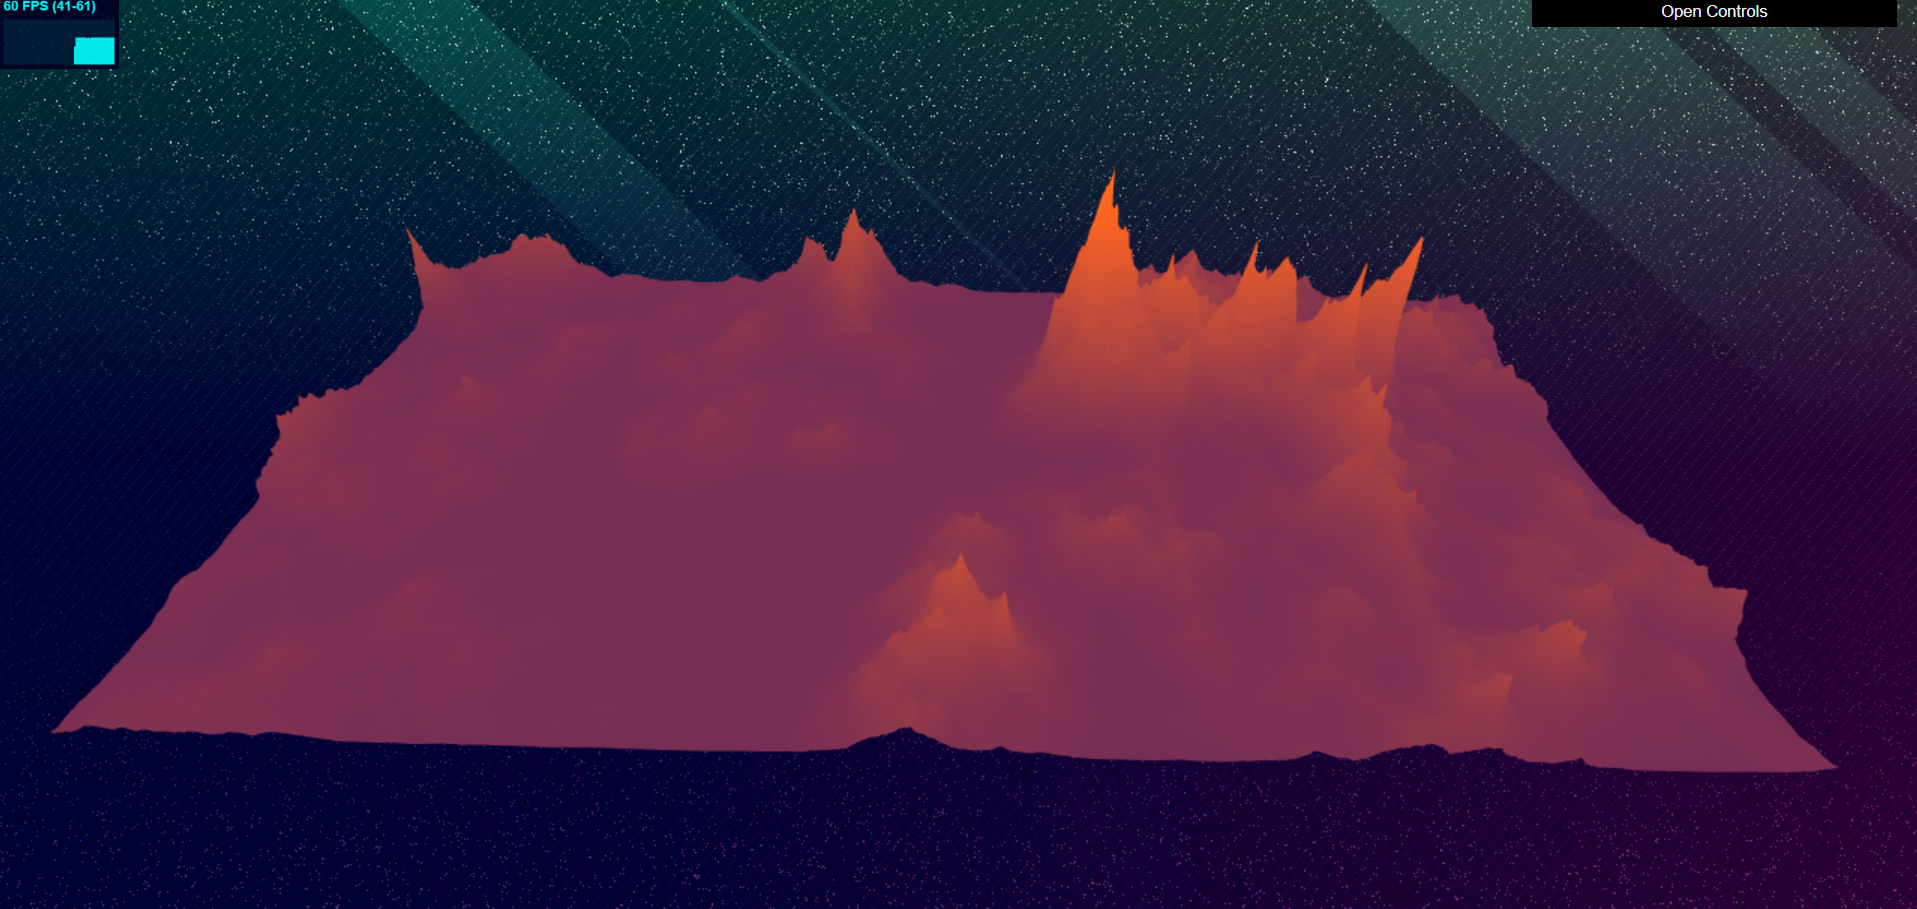
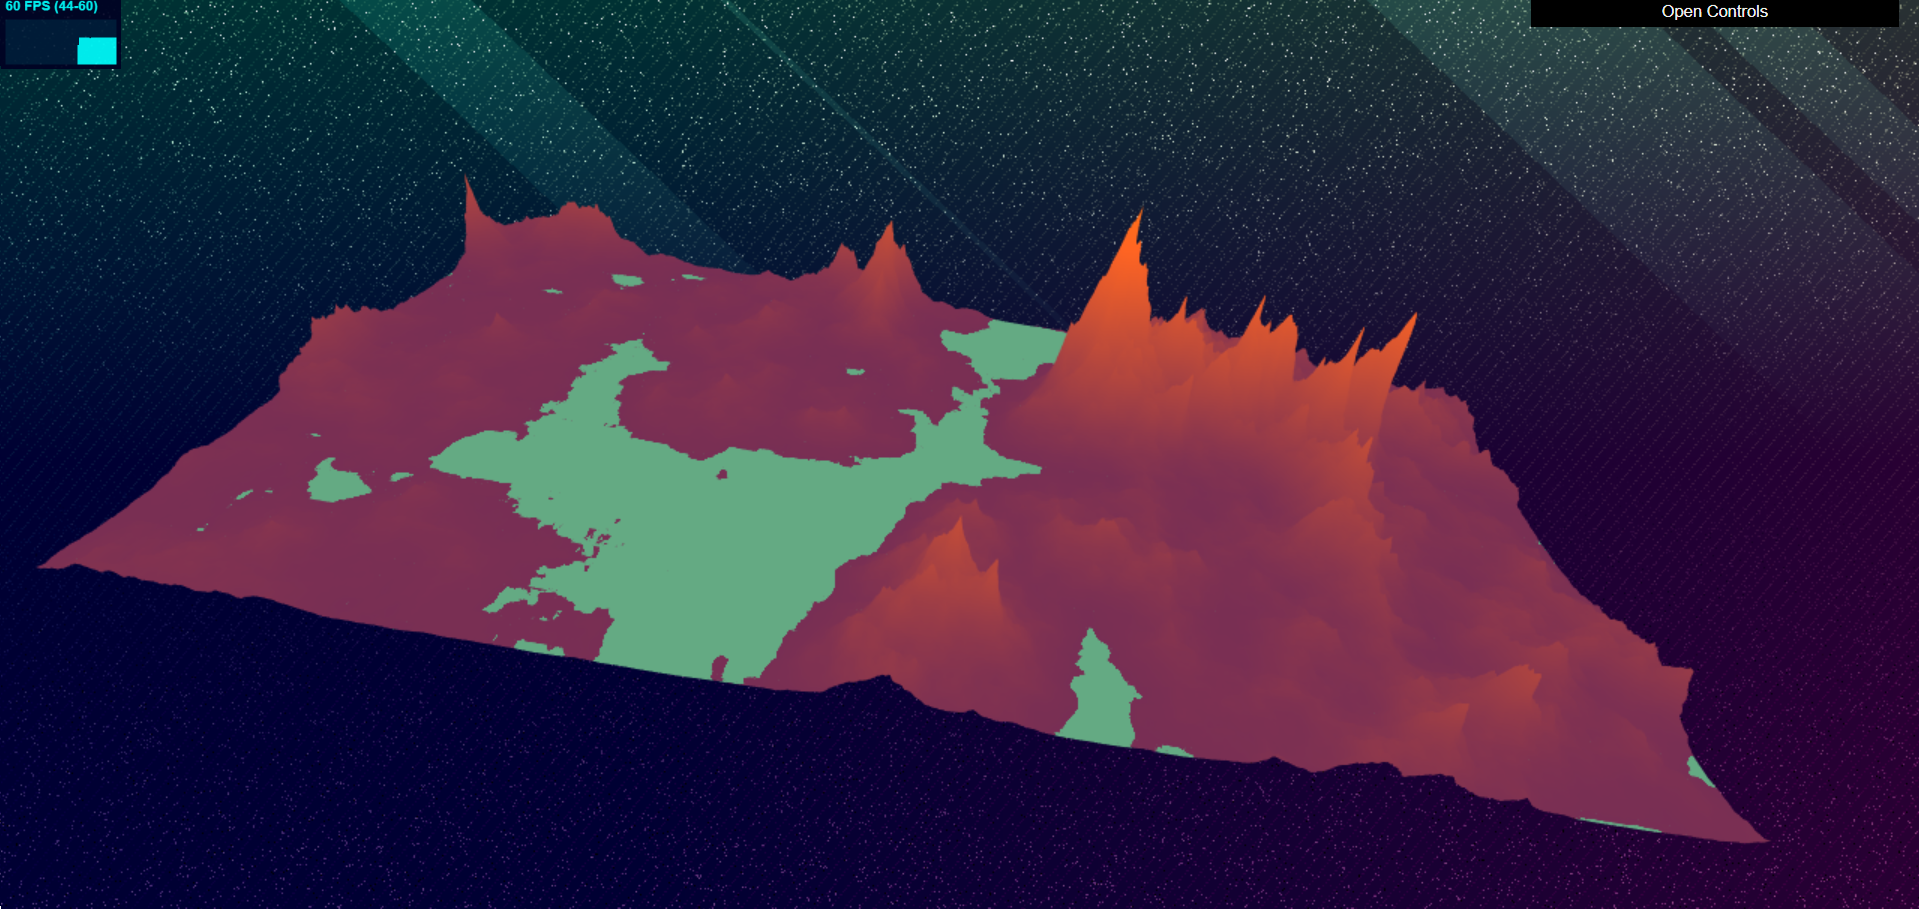
add more readme images

diff --git a/src/main.ts b/src/main.ts
@@ -12,6 +12,8 @@ import ShaderProgram, {Shader} from './rendering/gl/ShaderProgram';
 // This will be referred to by dat.GUI's functions that add GUI elements.
 const controls = {
   seaLevel: 0,
+  riverStart: 0.4,
+  riverEnd: 0.75,
   'Load Scene': loadScene, // A function pointer, essentially
 };
 
@@ -83,6 +85,8 @@ function main() {
   // Add controls to the gui
   const gui = new DAT.GUI();
   gui.add(controls, 'seaLevel', 0, 10).step(0.5);
+  gui.add(controls, 'riverStart', 0, 1).step(0.1);
+  gui.add(controls, 'riverEnd', 0, 5).step(0.25);
 
   // get canvas and webgl context
   const canvas = <HTMLCanvasElement> document.getElementById('canvas');

diff --git a/README.md b/README.md
@@ -5,29 +5,47 @@
 
 In addition to the class lectures and powerpoints, I consulted a few external resources for this project:
 - http://iquilezles.org/www/articles/warp/warp.htm, for implementing a perturbed FBM function.
-- https://static1.squarespace.com/static/58a1bc3c3e00be6bfe6c228c/t/58a4d25146c3c4233fb15cc2/1487196929690/ImplicitProceduralPlanetGeneration-Report.pdf, for inspiration.
+- https://static1.squarespace.com/static/58a1bc3c3e00be6bfe6c228c/t/58a4d25146c3c4233fb15cc2/1487196929690/ImplicitProceduralPlanetGeneration-Report.pdf, for approximating the gradient of a surface.
 
 # Live GitHub demo
-
-
+https://j9liu.github.io/hw1/
 
 # Sky Features
 
 The sky is a superposition of several simple functions, each of which is responsible for a different layer of the background.
 
+
+First, all the pixels were colored based on a linear gradient between a blue and a purple hue.
+linearly interpolated with the colors corresponding to the normals of the background plane's points.
 ![](sky01.png)
+
+Then, to produce the cartoon light rays, I experimented with an FBM noise function raised to an arbitrary exponent, which generated the overall placement of the rays based on the coordinates of the plane. The diagonal shape comes from adding the x and y coordinates together, and the angle of their slant is controlled by transforming the domain (multiplying these coordinates by scalars). The amount of light added is affected y coordinate, such that it fades out as it travels down the screen, ultimately cutting off at the half-way point.
 
 ![](sky02.png)
 
+The stars came from a custom hardcoded noise function that was called multiple times, both on the xy-coordinates and itself. I used two arbitrary thresholds to filter the amount of dots that appeared for two "layers" of stars, to create slight variation between their brightness.
+
 ![](sky03.png)
+
+Lastly, the smaller lines running through the sky were achieved in a similar way as the cartoon light rays. However, it is based on a custom noise function instead of the FBM, so there is no linear interpolation between values. Because of this, there are notable holes in these lines, as opposed to the solidness of the light rays.
 
 ![](sky04.png)
 ![](skyclose.png)
 
+Layering all of these effects on one another produces the stylistic night sky in the background.
 
-Layering all of these effects on one another 
 ![](sky05.png)
 
 # Terrain Features
 
+The terrain is meant to simulate a rocky, alien-esque landscape with its own (suspiciously colored) "water." I began with a typical 2D FBM function, which I then raised to an arbitrary exponent in order achieve mountains that towered notably over low-ranged areas. The base color of the mountains was achieved by linearly interpolating between a purple and orange hue, based on the height, while areas corresponding to the "water" were colored based on being below a height threshold.
+
 ![](terrain01.png)
+
+Since the standard shape of the FBM function showed fairly obviously throughthe mountains, I used more noise to vary the texture of the terrain. For all of the points above a certain height (so the land near the water wouldn't be distorted), I calculated the approximate gradient of the point, then used a perturbed FBM function to generate a noise value that determined how far along the gradient the point would be transformed. This resulted in more rocky, jagged mountains.
+
+![](terrain02.png)
+
+Since the pools of water were also fairly straightforward in appearance, I took all terrain that fell between a chosen height threshold and manually flattened them into rivers. This formed streams that followed the outline of the land while leaving some smaller strips of land for a somewhat marsh-like appearance.
+
+![](terrain03.png)
